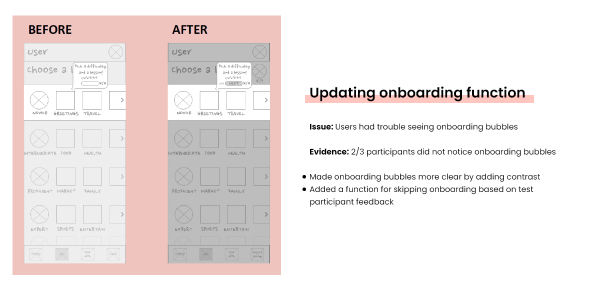
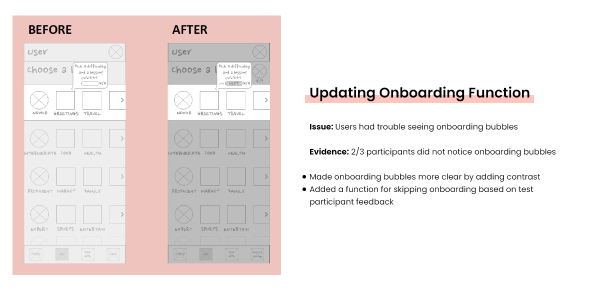
Update some image typos

Changed region(s): [[0.63, 0.2793, 0.9, 0.3724]]

diff --git a/lingually.html b/lingually.html
@@ -110,7 +110,7 @@
           </h5>
 
           <h5>
-            <strong>Role:</strong> UX/UI Designer (solo project for CareerFoundry UX Bootcamp).
+            <strong>Role:</strong> UX/UI Designer (solo project for CareerFoundry UX Bootcamp)
             <br>
             <strong>Tools:</strong> Adobe XD, Marvel, Google Sheets
             <br>
